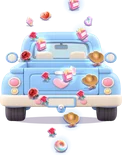
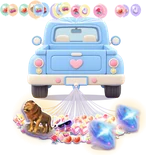
Gift car: every 3rd gift becomes a pastel balloon tied to the roof (open-top cars tie at the back seat), wind-blown slack strings; previews regenerated

diff --git a/packages/overlay/public/dragcar.html b/packages/overlay/public/dragcar.html
@@ -47,17 +47,20 @@
       sports: { src: 'themes/car-sports.webp', x: -333.4, y: -360, w: 666.8, h: 360, hook: { x: -0.2, y: -38.9 } },
       offroad: { src: 'themes/car-offroad.webp', x: -242.6, y: -360, w: 485.2, h: 360, hook: { x: -0.4, y: -60.1 } },
       jdm: { src: 'themes/car-jdm.webp', x: -261.2, y: -360, w: 522.5, h: 360, hook: { x: -0.4, y: -54.7 } },
-      bike: { src: 'themes/car-bike.webp', x: -145.2, y: -360, w: 290.5, h: 360, hook: { x: -0.2, y: -113.1 } },
+      bike: { src: 'themes/car-bike.webp', x: -145.2, y: -360, w: 290.5, h: 360, hook: { x: -0.2, y: -113.1 }, open: true },
       tourbus: { src: 'themes/car-tourbus.webp', x: -163.5, y: -360, w: 327.0, h: 360, hook: { x: -0.3, y: -74.6 }, music: true },
       limo: { src: 'themes/car-limo.webp', x: -285.3, y: -360, w: 570.6, h: 360, hook: { x: -0.4, y: -58.5 }, music: true },
-      vintage: { src: 'themes/car-vintage.webp', x: -290.5, y: -360, w: 580.9, h: 360, hook: { x: -0.2, y: -89.1 }, music: true },
+      vintage: { src: 'themes/car-vintage.webp', x: -290.5, y: -360, w: 580.9, h: 360, hook: { x: -0.2, y: -89.1 }, open: true, music: true },
       van: { src: 'themes/car-heart.webp', x: -209.3, y: -360, w: 418, h: 360, hook: { x: -2, y: -54 } },
       beetle: { src: 'themes/car-beetle.webp', x: -207.1, y: -360.0, w: 414.2, h: 360.0, hook: { x: -0.7, y: -59.1 } },
       minivan: { src: 'themes/car-minivan.webp', x: -191.1, y: -360.0, w: 382.2, h: 360.0, hook: { x: -0.7, y: -48.1 } },
-      convertible: { src: 'themes/car-convertible.webp', x: -216.5, y: -360.0, w: 433.0, h: 360.0, hook: { x: -0.6, y: -39.3 } },
+      convertible: { src: 'themes/car-convertible.webp', x: -216.5, y: -360.0, w: 433.0, h: 360.0, hook: { x: -0.6, y: -39.3 }, open: true },
       pickup: { src: 'themes/car-pickup.webp', x: -209.4, y: -360.0, w: 418.9, h: 360.0, hook: { x: 0.0, y: -49.6 } },
     };
     const CAR = CARS[P('car', 'van')] || CARS.van;
+    // ลูกโป่ง: ของขวัญทุก ๆ BAL_EVERY ชิ้น ไปผูกเป็นลูกโป่งลอยเหนือหลังคา (รถเปิดประทุน = ผูกที่เบาะหลัง) · ?balloons=0 ปิด
+    const BAL_ON = P('balloons', '1') !== '0', BAL_EVERY = 3, BAL_MAX = 20;
+    const BAL_COLORS = ['#ffb5d4', '#c9b8ff', '#a8e6cf', '#ffd3a5', '#a9d8ff', '#fff1a8', '#ff9ec4'];
     const carImg = Juice.skin(CAR.src, num('hue', 0), num('sat', 1), num('bright', 1));
     const CAR_Y = -250;
     if (CAR.music) setInterval(() => { if (!document.hidden && fx.notes) fx.notes((Math.random() - .5) * CAR.w * 0.5, CAR_Y + CAR.y + 30, 1); }, 1700); // รถยกขึ้นจากขอบล่าง → ของขวัญลากอยู่ด้านหน้า (ใกล้กล้อง) เชือกยาวแบบรถงานแต่ง
@@ -90,8 +93,34 @@
     function giftImg(url) { if (!url || !/^https:\/\//.test(url)) return null; let im = imgCache[url]; if (!im) { im = new Image(); im.src = url; imgCache[url] = im; } return im; }
     const EMOJI = { Rose: '🌹', 'Finger Heart': '🫰', Perfume: '🧴', Galaxy: '🌌', Lion: '🦁', Universe: '🪐', Heart: '❤', TikTok: '🎵' };
     const sizeFor = Juice.sizeFor || (() => 1);
+    let addCount = 0;
+    function nextBalIdx() { const used = new Set(gifts.filter((b) => b.balloon && !b.dying).map((b) => b.bi)); for (let i = 0; ; i++) if (!used.has(i)) return i; }
+    // จุดผูกลูกโป่ง: กลางหลังคา / เบาะหลังของรถเปิดประทุน
+    // จุดผูก = ขอบหลังคาจริงของรูปรถ (วัดจากภาพ: พิกเซลทึบแรกตรงกลางจากด้านบน) · รถเปิดประทุน = เบาะหลัง
+    let roofF = 0.12;
+    (function () {
+      const im = new Image(); im.onload = () => {
+        try {
+          const c = document.createElement('canvas'); c.width = 100; c.height = 100; const x = c.getContext('2d'); x.drawImage(im, 0, 0, 100, 100);
+          const d = x.getImageData(46, 0, 8, 100).data;
+          for (let y = 0; y < 100; y++) { let n = 0; for (let k = 0; k < 8; k++) if (d[(y * 8 + k) * 4 + 3] > 120) n++; if (n >= 4) { roofF = y / 100; break; } }
+        } catch (e) { /* ignore */ }
+      }; im.src = CAR.src;
+    })();
+    const balAnchor = () => ({ x: 0, y: CAR_Y + CAR.y + CAR.h * (CAR.open ? 0.42 : roofF + 0.09) });
+    function balloonPos(b, t) {
+      const a = balAnchor(), i = b.bi, ring = Math.floor(Math.sqrt(i)), k = i - ring * ring, n = 2 * ring + 1;
+      const ang = -Math.PI / 2 + (n > 1 ? (k / (n - 1) - 0.5) : 0) * Math.min(2.2, 0.7 + ring * 0.35);
+      const len = 85 + ring * 32 + (i % 3) * 8;
+      const gust = Math.sin(t * 0.45) * 0.5 + Math.sin(t * 0.83 + 1.3) * 0.3; // ลมพัดเป็นระลอก (ทุกลูกไปทางเดียวกัน)
+      const sw = gust * 0.16 + Math.sin(t * 1.1 + i * 1.7) * 0.07;
+      // จอเตี้ย: บีบกลุ่มลูกโป่งให้อยู่ในจอ (ไม่ล้นขอบบน)
+      const room = origin().y / S() + a.y - 50, fit = Math.min(1, room / 230);
+      // ที่เหนือรถน้อย → กางกลุ่มลูกโป่งออกด้านข้างแทน (ไม่ทับกันเป็นก้อน)
+      return { x: a.x + Math.cos(ang + sw) * len * (0.95 + (1 - fit) * 1.1), y: a.y + Math.min(-55, Math.sin(ang + sw) * len * fit) + Math.sin(t * 2 + i) * 4, ax: a.x, ay: a.y };
+    }
     function freeSlot() {
-      const used = new Set(gifts.filter((g) => !g.dying).map((g) => g.slot));
+      const used = new Set(gifts.filter((g) => !g.dying && !g.balloon).map((g) => g.slot));
       for (let i = 0; i < slots.length && i < MAX + 20; i++) if (!used.has(i)) return i;
       return -1;
     }
@@ -101,7 +130,9 @@
       if (alive.length >= MAX || slot < 0) { const old = (window.VJLCollect && VJLCollect.victims) ? VJLCollect.victims(gifts.map((x) => ({ ...x, d: x.g.d, ref: x })), 1).map((x) => x.ref)[0] : alive[0]; if (old) { old.dying = true; slot = old.slot; } }
       if (slot < 0) slot = 0;
       const r = Math.min(78, 18 * GIFT_SCALE * sizeFor(g.d, 4.2)); // ของแพงใหญ่ชัด ๆ (Lion/Universe ≈ 4 เท่า)
-      gifts.push({ g, img: giftImg(g.u), slot, r, born, life: 1, sx: (Math.random() - .5) * 160, sy: CAR_Y - 420 - Math.random() * 120 });
+      const nBal = gifts.filter((b) => b.balloon && !b.dying).length;
+      const balloon = BAL_ON && nBal < BAL_MAX && (++addCount % BAL_EVERY === 0);
+      gifts.push({ g, img: giftImg(g.u), slot, r, born, life: 1, sx: (Math.random() - .5) * 160, sy: CAR_Y - 420 - Math.random() * 120, balloon, bi: balloon ? nextBalIdx() : -1 });
       if (born > 0) punch.kick(g.d >= 1000 ? -6 : -2.5);
     }
 
@@ -149,7 +180,7 @@
       const h = hook(), hy = h.y - bob;
       // ของแพงวาดทีหลัง = อยู่บนสุดของกอง ไม่โดนของถูกบัง (แพงพอกันค่อยเรียงไกล → ใกล้)
       const tier = (d) => (d >= 1000 ? 3 : d >= 100 ? 2 : d >= 20 ? 1 : 0);
-      const list = gifts.map((b) => ({ b, p: giftPos(b, t, now) })).sort((a, c) => tier(a.b.g.d) - tier(c.b.g.d) || a.p.y - c.p.y);
+      const list = gifts.filter((b) => !b.balloon).map((b) => ({ b, p: giftPos(b, t, now) })).sort((a, c) => tier(a.b.g.d) - tier(c.b.g.d) || a.p.y - c.p.y);
       // เงารถ
       ctx.beginPath(); ctx.ellipse(0, CAR_Y - 4, CAR.w * 0.42, 14, 0, 0, Math.PI * 2); ctx.fillStyle = 'rgba(60,40,90,.28)'; ctx.fill();
       // รถ
@@ -167,6 +198,28 @@
         ctx.lineWidth = 1.4; ctx.strokeStyle = 'rgba(255,255,255,.9)'; ctx.stroke();
       }
       ctx.globalAlpha = 1;
+      // ลูกโป่งบนหลังคา: เชือก → ลูกโป่งสีพาสเทล มีของขวัญอยู่ตรงกลาง
+      for (const b of gifts) {
+        if (!b.balloon) continue;
+        if (b.dying) b.life -= 0.03;
+        const p = balloonPos(b, t), ay = p.ay - bob;
+        let x = p.x, y = p.y - bob;
+        if (b.born > 0) { const k = Math.min(1, (now - b.born) / 900), e = Juice.easeOutBack ? Juice.easeOutBack(k) : k; x = b.sx + (x - b.sx) * e; y = b.sy + (y - b.sy) * Math.min(1, k * 1.1); if (k >= 1 && !b.landed) { b.landed = true; fx.sparkle(x, y, 6, '#fff6e8'); } }
+        const R = Math.max(26, Math.min(58, b.r * 1.35)), col = BAL_COLORS[b.bi % BAL_COLORS.length];
+        ctx.save(); ctx.globalAlpha = Math.max(0, b.life);
+        const ex = x, ey = y + R * 1.12, dx = ex - p.ax, dy = ey - ay, wind = Math.sin(t * 0.45) * 26 + Math.sin(t * 1.7 + b.bi) * 9;
+        ctx.beginPath(); ctx.moveTo(p.ax, ay); // เชือกหย่อน ๆ เป็นรูปตัว S เอนตามลม
+        ctx.bezierCurveTo(p.ax + dx * 0.15 - wind, ay + dy * 0.35 + 10, p.ax + dx * 0.75 + wind * 0.8, ay + dy * 0.7 + 6, ex, ey);
+        ctx.lineWidth = 1.6; ctx.strokeStyle = 'rgba(255,255,255,.9)'; ctx.stroke();
+        const gr = ctx.createRadialGradient(x - R * .35, y - R * .45, R * .1, x, y, R * 1.1); gr.addColorStop(0, '#ffffff'); gr.addColorStop(.35, col); gr.addColorStop(1, col);
+        ctx.beginPath(); ctx.ellipse(x, y, R * .92, R * 1.05, 0, 0, Math.PI * 2); ctx.fillStyle = gr; ctx.globalAlpha = Math.max(0, b.life) * .92; ctx.fill();
+        ctx.globalAlpha = Math.max(0, b.life); ctx.lineWidth = 2; ctx.strokeStyle = 'rgba(255,255,255,.7)'; ctx.stroke();
+        ctx.beginPath(); ctx.moveTo(x - 5, y + R * 1.12); ctx.lineTo(x + 5, y + R * 1.12); ctx.lineTo(x, y + R * 1.02); ctx.closePath(); ctx.fillStyle = col; ctx.fill(); // ปมลูกโป่ง
+        ctx.beginPath(); ctx.ellipse(x - R * .38, y - R * .45, R * .14, R * .24, -.5, 0, Math.PI * 2); ctx.fillStyle = 'rgba(255,255,255,.75)'; ctx.fill(); // แสงสะท้อน
+        ctx.translate(x, y); ctx.rotate(Math.sin(t * 1.5 + b.bi) * .1); drawGift(b.img, b.g.e, R * 1.15); ctx.restore();
+      }
+      // ปมผูกบนหลังคา
+      if (BAL_ON && gifts.some((b) => b.balloon)) { const a = balAnchor(); ctx.beginPath(); ctx.arc(a.x, a.y - bob, 4, 0, Math.PI * 2); ctx.fillStyle = '#fff'; ctx.fill(); ctx.lineWidth = 1.5; ctx.strokeStyle = 'rgba(120,90,160,.6)'; ctx.stroke(); }
       // ตะขอ
       ctx.beginPath(); ctx.arc(h.x, hy, 5, 0, Math.PI * 2); ctx.fillStyle = '#f4f0fb'; ctx.fill(); ctx.lineWidth = 2; ctx.strokeStyle = 'rgba(120,90,160,.6)'; ctx.stroke();
       // ของขวัญ (ไกล → ใกล้)
@@ -202,7 +255,7 @@
       const g = { u: (e.giftImage || (window.VJLCollect ? VJLCollect.imgFor(e.giftName) : '')), e: EMOJI[e.giftName] || '🎁', d: unit };
       const n = unit >= 1000 ? 1 : Math.min(count, 150); // ส่ง 100 ดอก = ลาก 100 ชิ้น (เดิมตัดที่ 25)
       if (window.VJLCollect) VJLCollect.record(e, n);
-      for (let i = 0; i < n; i++) setTimeout(() => { addGift(g, performance.now()); save(); }, i * (n > 25 ? 60 : 140));
+      for (let i = 0; i < n; i++) setTimeout(() => { addGift(g, e.__shot ? -1e6 : performance.now()); save(); }, i * (n > 25 ? 60 : 140));
       if (CAR.music && fx.notes) fx.notes(0, CAR_Y + CAR.y + 20, unit >= 100 ? 5 : 2);
       if (!e.__quiet) showAlert(e, count);
     }

diff --git a/packages/overlay/public/js/collect-store.js b/packages/overlay/public/js/collect-store.js
@@ -66,7 +66,7 @@
       return { type: 'gift', user: { uniqueId: nm, nickname: nm, avatar: '' }, giftName: g[0], giftImage: g[2], diamondCount: g[1], repeatCount: g[1] >= 100 ? 1 : 1 + Math.floor(Math.random() * 3), streaking: false };
     },
     /** ?fill=N (ถ่ายภาพตัวอย่าง): ใส่ของขวัญ N ชิ้นรวดเดียวตอนเริ่ม */
-    demoBurst(onGift) { const n = Math.min(150, parseInt(q.get('fill') || '0', 10) || 0); for (let i = 0; i < n; i++) setTimeout(() => onGift(this.demoGift()), i * 60); },
+    demoBurst(onGift) { const n = Math.min(150, parseInt(q.get('fill') || '0', 10) || 0); for (let i = 0; i < n; i++) setTimeout(() => onGift({ ...this.demoGift(), __shot: q.get('shot') === '1' ? 1 : 0 }), i * 60); },
     /** รูปของขวัญจากชื่อ (สำรองตอนอีเวนต์ไม่มีรูป) */
     imgFor,
     /** เลือก n ชิ้นที่จะจางออกเมื่อจอเต็ม: ถูกก่อน แล้วเก่าก่อน (list เรียงเก่า→ใหม่, ราคาอยู่ที่ .d) */
